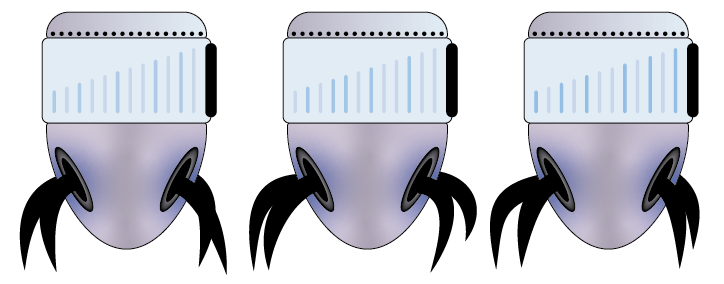
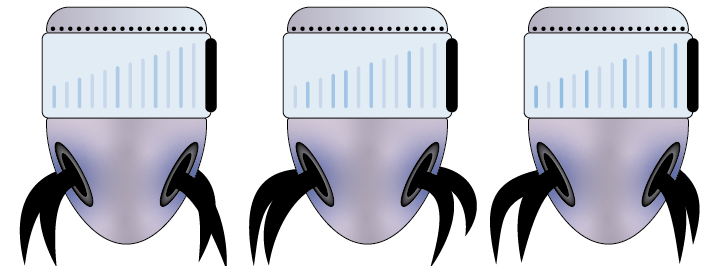
Передвижения робота

diff --git a/main.py b/main.py
@@ -3,6 +3,8 @@ import os
 import sys
 
 FPS = 30
+HERO_KEYS = [pygame.K_w, pygame.K_a, pygame.K_d,
+             pygame.K_UP, pygame.K_LEFT, pygame.K_RIGHT]
 
 
 class AnimatedSprite(pygame.sprite.Sprite):
@@ -34,9 +36,46 @@ class RoboticHero(AnimatedSprite):
     х и у - координаты места первого появления персонажа
     """
     def __init__(self, x=0, y=0):
-        super().__init__(load_image('robot_steps.png'), 3, 1, x, y)
+        img = load_image('robot_steps.png')
+        super().__init__(pygame.transform.scale(
+            img, (img.get_width() // 3, img.get_height() // 3)),
+            3, 1, x, y)
         self.walk = False  # идёт ли персонаж (для анимации)
         self.fall = False  # падает ли персонаж
+        self.time = 0
+
+    def motion(self, key):
+        """
+        Функция для управления персонажем.
+        Принимает нажатую клавишу.
+        """
+        if self.fall:
+            return
+        if key in (pygame.K_w, pygame.K_UP):
+            self.rect.y -= 20
+        elif key in (pygame.K_a, pygame.K_LEFT):
+            self.rect.x -= 10
+        elif key in (pygame.K_d, pygame.K_RIGHT):
+            self.rect.x += 10
+        self.fix_collides()
+
+    def fix_collides(self):
+        """Защита от наскоков (в дальнейшем будет дополняться)"""
+        if self.rect.x < 0:
+            self.rect.x = 0
+        if self.rect.x + self.rect.w > 750:
+            self.rect.x = 750 - self.rect.w
+        if self.rect.y < 0:
+            self.rect.y = 0
+        if self.rect.y + self.rect.h > 500:
+            self.rect.y = 500 - self.rect.h
+
+        self.fall = self.rect.y + self.rect.h != 500
+
+    def update(self):
+        if self.walk:
+            self.cur_frame = (self.cur_frame + 1) % 3
+            self.image = self.frames[self.cur_frame]
 
 
 def load_image(name, colorkey=None):
@@ -63,15 +102,23 @@ def terminate():
 
 def main():
     pygame.init()
-    size = width, height = 750, 500
+    size = 750, 500
     screen = pygame.display.set_mode(size)
     clock = pygame.time.Clock()
+
     all_sprites = pygame.sprite.Group()
+    hero = RoboticHero(y=600)
+    hero.fix_collides()
+    hero.add(all_sprites)
 
     while True:
         for event in pygame.event.get():
             if event.type == pygame.QUIT:
                 terminate()
+            if event.type == pygame.KEYDOWN:
+                if event.key in HERO_KEYS:
+                    hero.motion(event.key)
+        screen.fill((255, 255, 255))
         all_sprites.update()
         all_sprites.draw(screen)
         pygame.display.flip()
